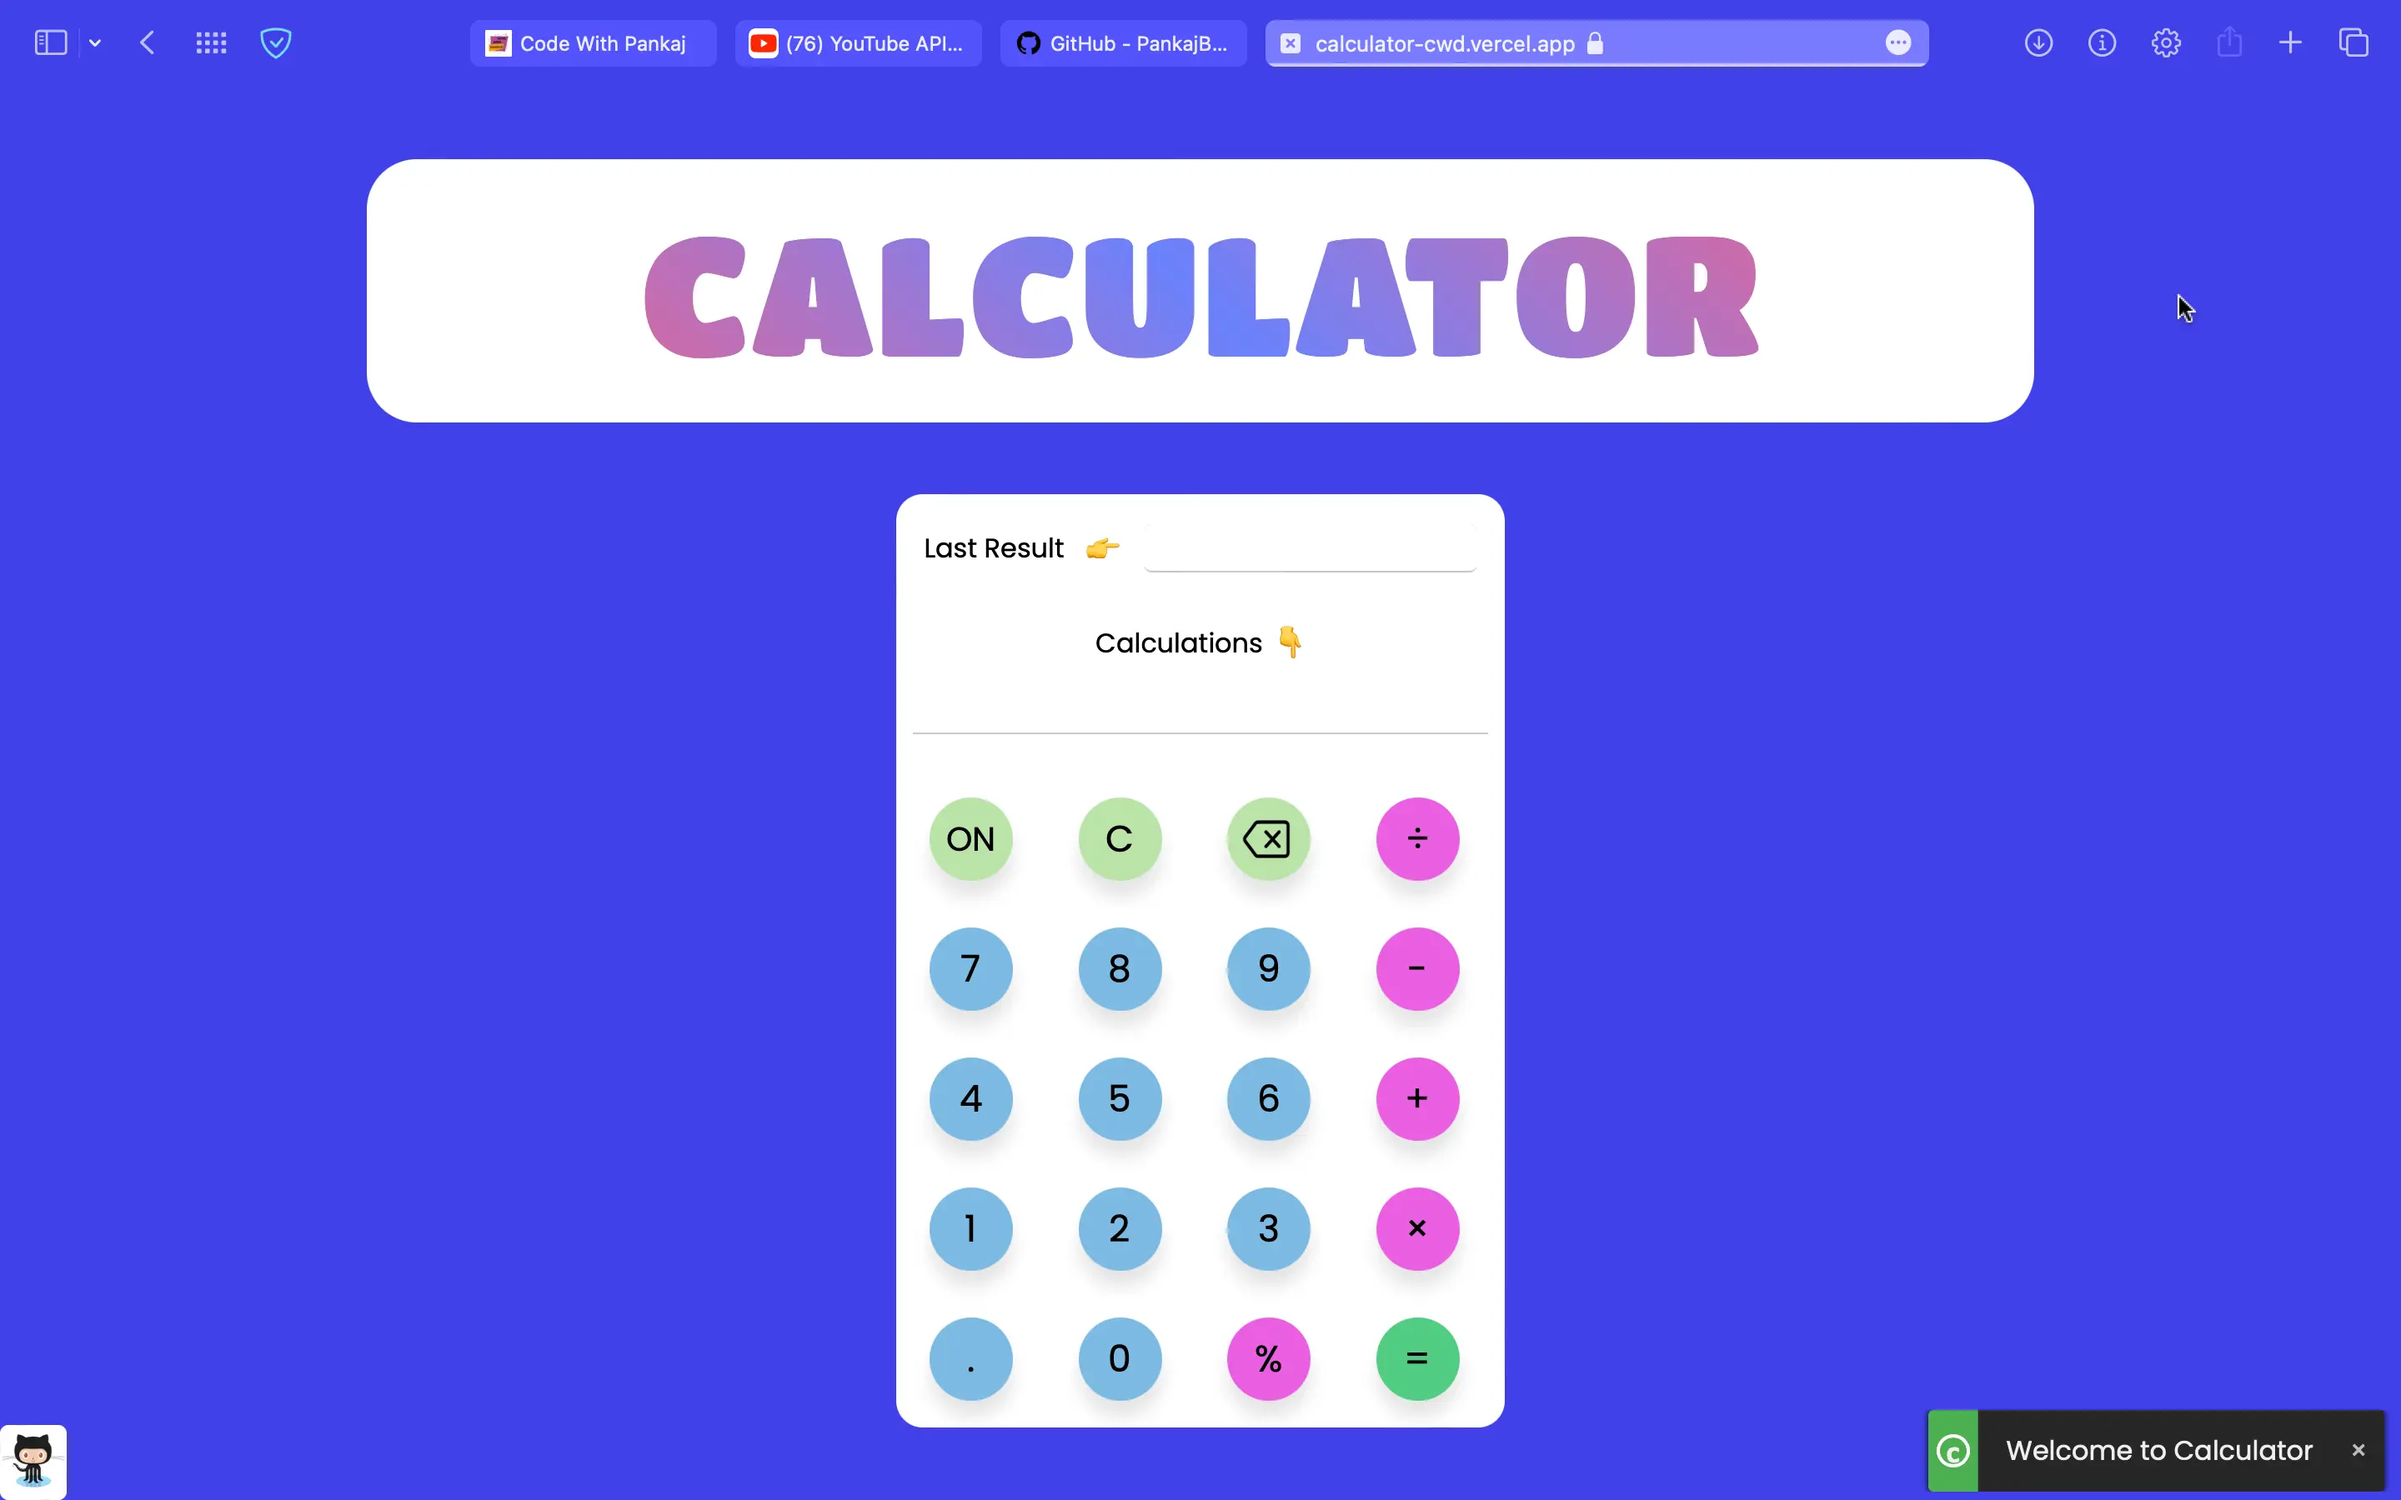
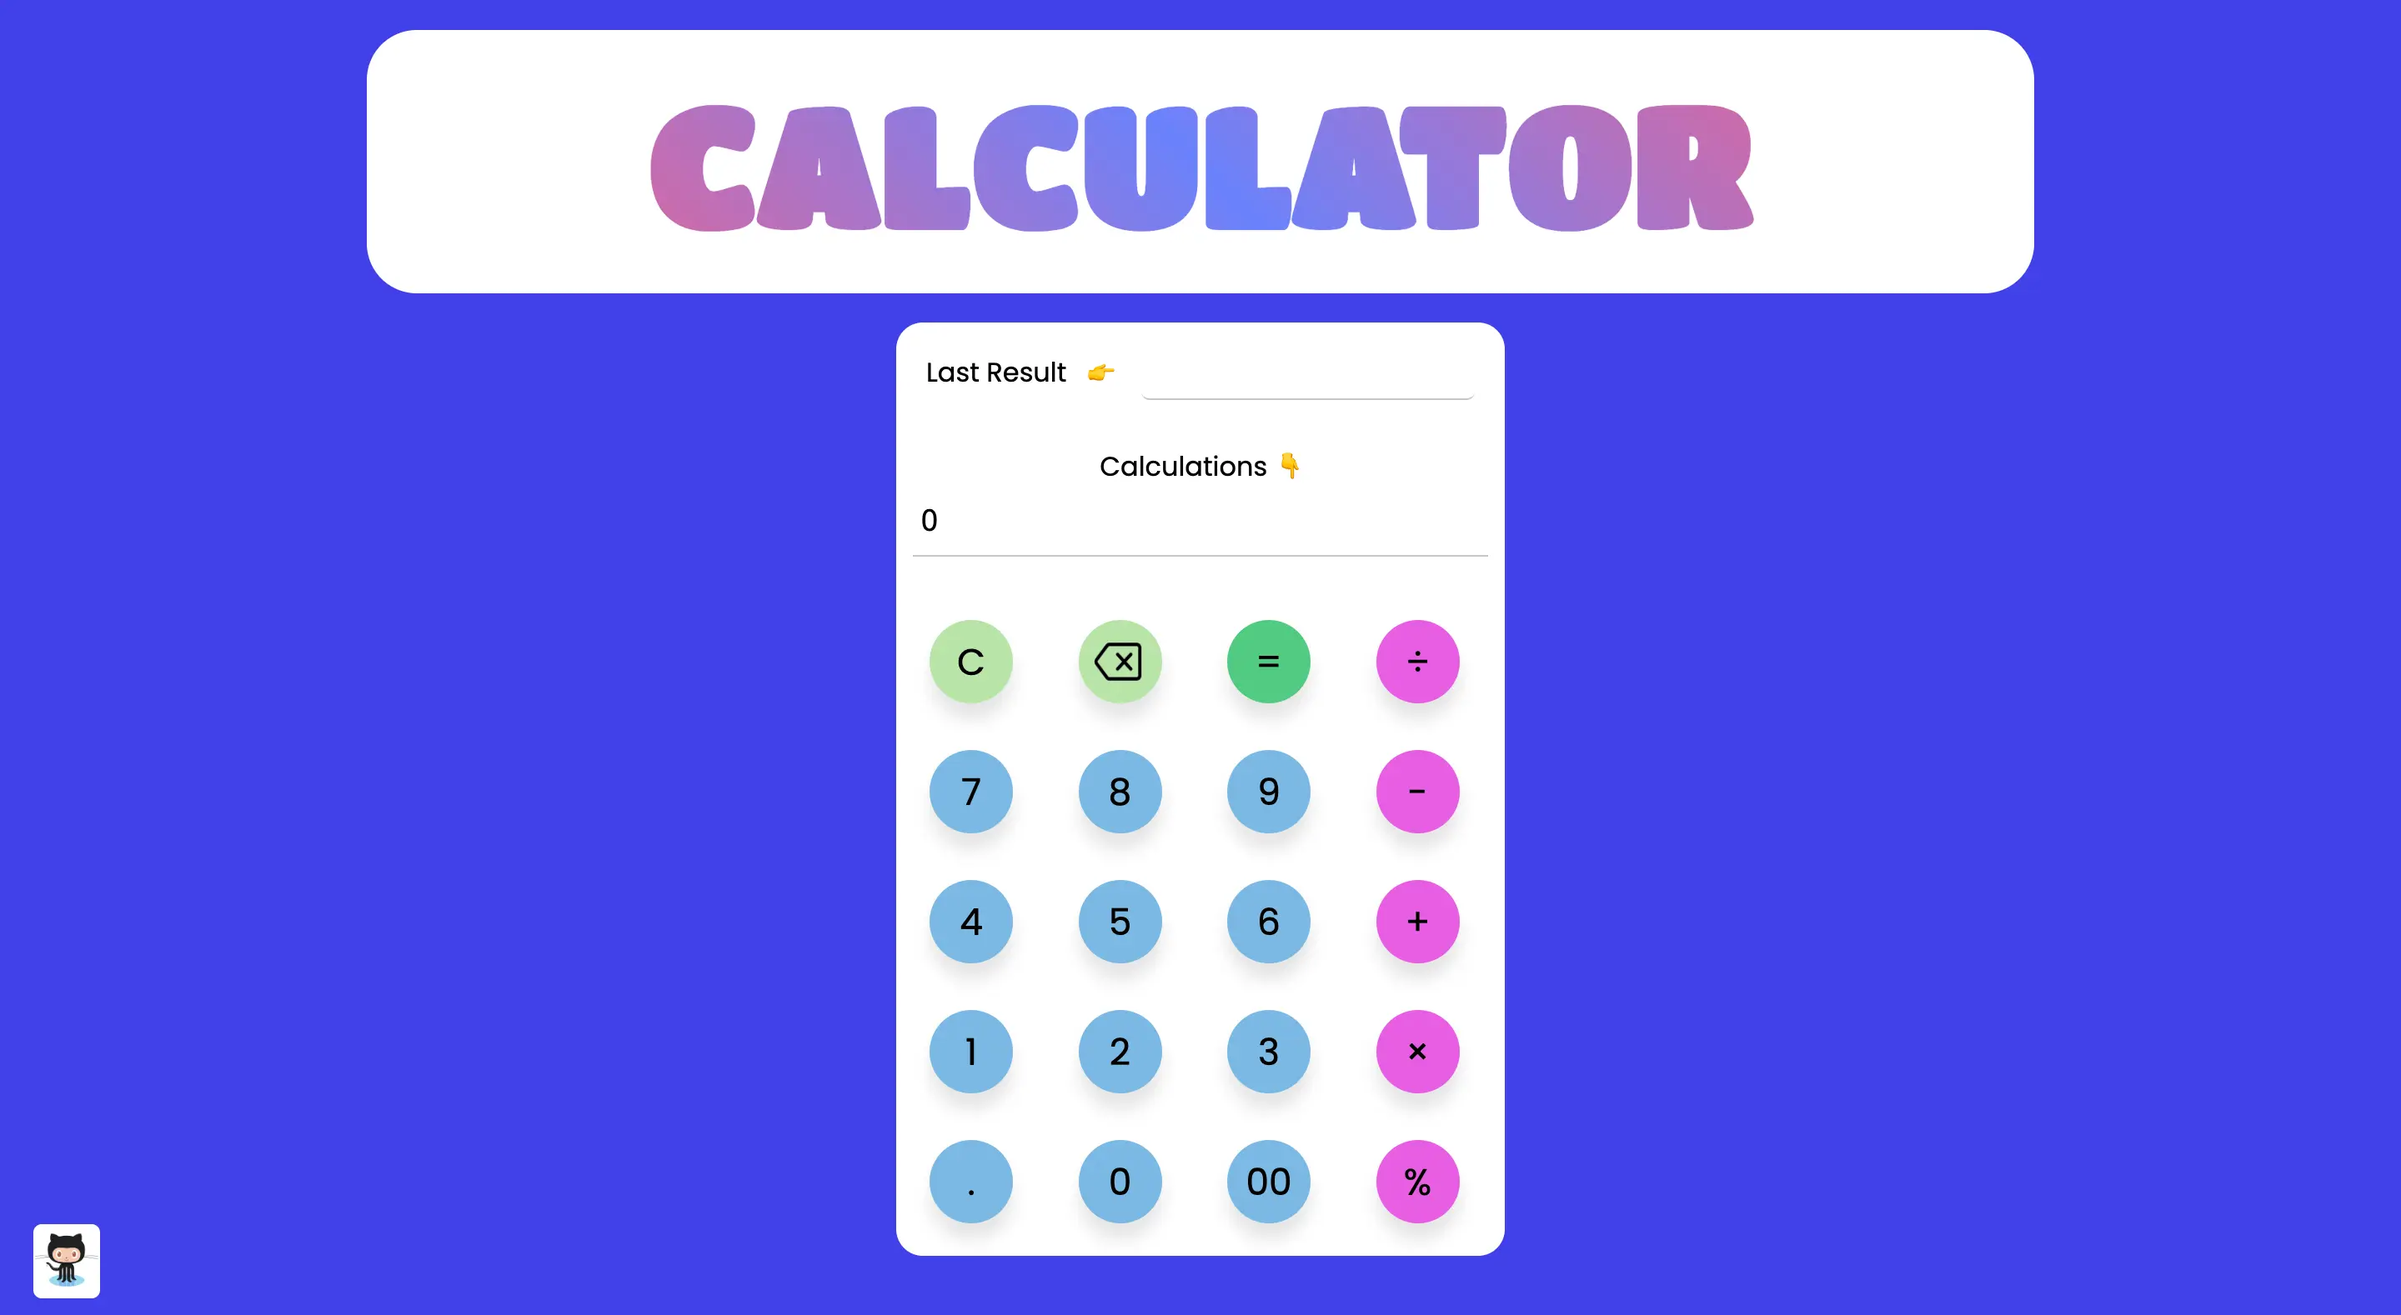
final - UI improvements & other

diff --git a/index.html b/index.html
@@ -38,122 +38,126 @@
         </div>
         <div class="container2">
             <ul id="start" class="wrapper">
-                <li class="icon buttton__icon startbgcolor" onclick="getKeys('clear')">
-                    <span class="tooltip unselectable">Start</span>
-                    <span class="unselectable">C</span>
+                <li class="icon button__icon startbgcolor" onclick="getKeys('clear')">
+                    <span class="tooltip un-selectable">Start</span>
+                    <span class="un-selectable">C</span>
                 </li>
             </ul>
             <ul class="wrapper">
-                <li class="icon buttton__icon startbgcolor"
-                    id="change-image"
-                    onclick="getKeys('backSpace')">
-                    <span class="tooltip unselectable">Backspace</span>
-                    <span class="backImg unselectable" id="change-img">
+                <li class="icon button__icon startbgcolor" id="change-image" onclick="getKeys('backSpace')">
+                    <span class="tooltip un-selectable">Backspace</span>
+                    <span class="backImg un-selectable" id="change-img">
                         <img src="./Images/backspace.png" id="backSpacePNG" alt="backspace" width="30" height="33">
                     </span>
                 </li>
             </ul>
             <ul class="wrapper">
-                <li class="icon buttton__icon equalbgcolor" onclick="getKeys('=')">
-                    <span class="tooltip unselectable">Equals</span>
-                    <span class="unselectable">=</span>
+                <li class="icon button__icon equalbgcolor" onclick="getKeys('=')">
+                    <span class="tooltip un-selectable">Equals</span>
+                    <span class="un-selectable">=</span>
                 </li>
             </ul>
             <ul class="wrapper">
-                <li class="icon buttton__icon symbolbgcolor" onclick="getKeys('/')">
-                    <span class="tooltip unselectable">Divide</span>
-                    <span class="unselectable">÷</span>
+                <li class="icon button__icon symbolbgcolor" onclick="getKeys('/')">
+                    <span class="tooltip un-selectable">Divide</span>
+                    <span class="un-selectable">÷</span>
                 </li>
             </ul>
 
             <ul class="wrapper">
-                <li class="icon buttton__icon digitbgcolor" onclick="getKeys(7)">
-                    <span class="tooltip unselectable">Seven</span>
-                    <span class="unselectable">7</span>
+                <li class="icon button__icon digitbgcolor" onclick="getKeys(7)">
+                    <span class="tooltip un-selectable">Seven</span>
+                    <span class="un-selectable">7</span>
                 </li>
             </ul>
             <ul class="wrapper">
-                <li class="icon buttton__icon digitbgcolor" onclick="getKeys(8)">
-                    <span class="tooltip unselectable">Eight</span>
-                    <span class="unselectable">8</span>
+                <li class="icon button__icon digitbgcolor" onclick="getKeys(8)">
+                    <span class="tooltip un-selectable">Eight</span>
+                    <span class="un-selectable">8</span>
                 </li>
             </ul>
             <ul class="wrapper">
-                <li class="icon buttton__icon digitbgcolor" onclick="getKeys(9)">
-                    <span class="tooltip unselectable">Nine</span>
-                    <span class="unselectable">9</span>
+                <li class="icon button__icon digitbgcolor" onclick="getKeys(9)">
+                    <span class="tooltip un-selectable">Nine</span>
+                    <span class="un-selectable">9</span>
                 </li>
             </ul>
             <ul class="wrapper">
-                <li class="icon buttton__icon symbolbgcolor" onclick="getKeys('-')">
-                    <span class="tooltip unselectable">Subtract</span>
-                    <span class="unselectable">-</span>
+                <li class="icon button__icon symbolbgcolor" onclick="getKeys('-')">
+                    <span class="tooltip un-selectable">Subtract</span>
+                    <span class="un-selectable">-</span>
                 </li>
             </ul>
             <ul class="wrapper">
-                <li class="icon buttton__icon digitbgcolor" onclick="getKeys(4)">
-                    <span class="tooltip unselectable">Four</span>
-                    <span class="unselectable">4</span>
+                <li class="icon button__icon digitbgcolor" onclick="getKeys(4)">
+                    <span class="tooltip un-selectable">Four</span>
+                    <span class="un-selectable">4</span>
                 </li>
             </ul>
             <ul class="wrapper">
-                <li class="icon buttton__icon digitbgcolor" onclick="getKeys(5)">
-                    <span class="tooltip unselectable">Five</span>
-                    <span class="unselectable">5</span>
+                <li class="icon button__icon digitbgcolor" onclick="getKeys(5)">
+                    <span class="tooltip un-selectable">Five</span>
+                    <span class="un-selectable">5</span>
                 </li>
             </ul>
             <ul class="wrapper">
-                <li class="icon buttton__icon digitbgcolor" onclick="getKeys(6)">
-                    <span class="tooltip unselectable">Six</span>
-                    <span class="unselectable">6</span>
+                <li class="icon button__icon digitbgcolor" onclick="getKeys(6)">
+                    <span class="tooltip un-selectable">Six</span>
+                    <span class="un-selectable">6</span>
                 </li>
             </ul>
             <ul class="wrapper">
-                <li class="icon buttton__icon symbolbgcolor" onclick="getKeys('+')">
-                    <span class="tooltip unselectable">Addition</span>
-                    <span class="unselectable">+</span>
+                <li class="icon button__icon symbolbgcolor" onclick="getKeys('+')">
+                    <span class="tooltip un-selectable">Addition</span>
+                    <span class="un-selectable">+</span>
                 </li>
             </ul>
             <ul class="wrapper">
-                <li class="icon buttton__icon digitbgcolor" onclick="getKeys(1)">
-                    <span class="tooltip unselectable">One</span>
-                    <span class="unselectable">1</span>
+                <li class="icon button__icon digitbgcolor" onclick="getKeys(1)">
+                    <span class="tooltip un-selectable">One</span>
+                    <span class="un-selectable">1</span>
                 </li>
             </ul>
             <ul class="wrapper">
-                <li class="icon buttton__icon digitbgcolor" onclick="getKeys(2)">
-                    <span class="tooltip unselectable">Two</span>
-                    <span class="unselectable">2</span>
+                <li class="icon button__icon digitbgcolor" onclick="getKeys(2)">
+                    <span class="tooltip un-selectable">Two</span>
+                    <span class="un-selectable">2</span>
                 </li>
             </ul>
             <ul class="wrapper">
-                <li class="icon buttton__icon digitbgcolor" onclick="getKeys(3)">
-                    <span class="tooltip unselectable">Three</span>
-                    <span class="unselectable">3</span>
+                <li class="icon button__icon digitbgcolor" onclick="getKeys(3)">
+                    <span class="tooltip un-selectable">Three</span>
+                    <span class="un-selectable">3</span>
                 </li>
             </ul>
             <ul class="wrapper">
-                <li class="icon buttton__icon symbolbgcolor" onclick="getKeys('*')">
-                    <span class="tooltip unselectable">Multiply</span>
-                    <span class="unselectable">×</span>
+                <li class="icon button__icon symbolbgcolor" onclick="getKeys('*')">
+                    <span class="tooltip un-selectable">Multiply</span>
+                    <span class="un-selectable">×</span>
                 </li>
             </ul>
             <ul class="wrapper">
-                <li class="icon buttton__icon digitbgcolor" onclick="getKeys('.')">
-                    <span class="tooltip unselectable">Dot</span>
-                    <span class="unselectable">.</span>
+                <li class="icon button__icon digitbgcolor" onclick="getKeys('.')">
+                    <span class="tooltip un-selectable">Dot</span>
+                    <span class="un-selectable">.</span>
                 </li>
             </ul>
             <ul class="wrapper">
-                <li class="icon buttton__icon digitbgcolor" onclick="getKeys(0)">
-                    <span class="tooltip unselectable">Zero</span>
-                    <span class="unselectable">0</span>
+                <li class="icon button__icon digitbgcolor" onclick="getKeys('0')">
+                    <span class="tooltip un-selectable">Zero</span>
+                    <span class="un-selectable">0</span>
                 </li>
             </ul>
             <ul class="wrapper">
-                <li class="icon buttton__icon symbolbgcolor" onclick="getKeys('%')">
-                    <span class="tooltip unselectable">Percentage</span>
-                    <span class="unselectable">%</span>
+                <li class="icon button__icon digitbgcolor" onclick="getKeys('00')">
+                    <span class="tooltip un-selectable">Zero's</span>
+                    <span class="un-selectable">00</span>
+                </li>
+            </ul>
+            <ul class="wrapper">
+                <li class="icon button__icon symbolbgcolor" onclick="getKeys('%')">
+                    <span class="tooltip un-selectable">Percentage</span>
+                    <span class="un-selectable">%</span>
                 </li>
             </ul>
         </div>
@@ -161,11 +165,12 @@
 
     <!-- Right down corner github link with profile picture -->
     <div class="git-down">
-        <a href="https://github.com/pankajbaliyan" target="_blank"><img class="me2" src="./Images/Octocat.png" alt="github Octocat"></a>
+        <a href="https://github.com/pankajbaliyan" target="_blank"><img class="me2" src="./Images/Octocat.png"
+                alt="github Octocat"></a>
     </div>
 
     <!-- linking of JavaScript files  -->
-    <script src="./JavaScript/script.js" type="text/javascript"></script>
+    <script src="./JavaScript/script.js"></script>
     <script src="./Snackbar/js-snackbar.js?v=1.4"></script>
 </body>
 

diff --git a/JavaScript/script.js b/JavaScript/script.js
@@ -102,6 +102,7 @@ function enterNumber(inputNumber, currentData) {
 function calculation(inputData) {
     let currentData = outputResult.value.toString();
     let str = inputData.slice(0, -1); //remove last digit(=) from outputResult.value
+    let setData; // variable to store calculation result, used below
 
     // remove any trailing operators
     switch (str.charAt(str.length - 1)) {
@@ -120,7 +121,7 @@ function calculation(inputData) {
         outputResult.value = 0;
     } else {
         // evaluate the expression
-        let setData = Function('"use strict";return (' + str + ')')();
+        setData = Function('"use strict";return (' + str + ')')();
         setData = parseFloat(setData.toFixed(2));
 
         outputResult.value = setData;

diff --git a/CSS/style.css b/CSS/style.css
@@ -231,9 +231,9 @@ input:focus {
     text-shadow: 0px -1px 0px rgba(0, 0, 0, 0.1);
 }
 
-.wrapper .buttton__icon:hover,
-.wrapper .buttton__icon:hover .tooltip,
-.wrapper .buttton__icon:hover .tooltip::before {
+.wrapper .button__icon:hover,
+.wrapper .button__icon:hover .tooltip,
+.wrapper .button__icon:hover .tooltip::before {
     background: #1877F2 !important;
     color: #ffffff;
 }
@@ -254,16 +254,17 @@ input:focus {
     background: #e95ee2 !important;
 }
 
-.git-down{
+.git-down {
     position: absolute;
     bottom: 0;
     left: 0;
 }
-.me2{
+
+.me2 {
     width: 40px;
 }
 
-.unselectable {
+.un-selectable {
     -webkit-touch-callout: none;
     -webkit-user-select: none;
     -khtml-user-select: none;

diff --git a/CSS/responsive.css b/CSS/responsive.css
@@ -45,10 +45,6 @@
 }
 
 @media screen and (min-width: 481px) {
-    .git-down {
-        width: 100%;
-        display: flex;
-    }
 
     .git-down a {
         display: inline-block;
@@ -61,6 +57,13 @@
 @media (min-width: 481px) and (max-width: 768px) {
     .container {
         display: none;
+    }
+}
+
+@media (min-width: 768px) {
+    .git-down a {
+        margin-left: 10px;
+        margin-bottom: 10px;
     }
 }
 
